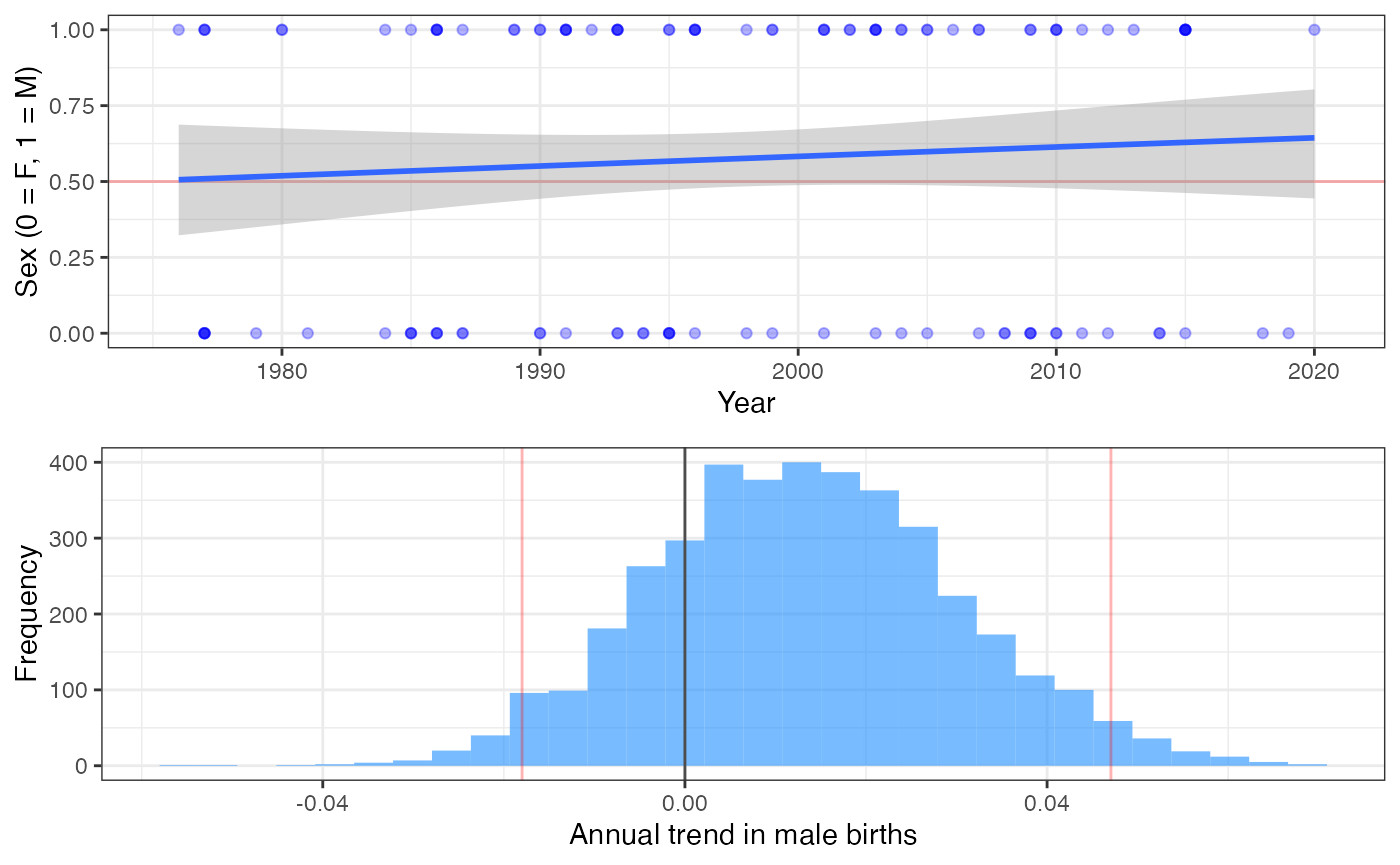
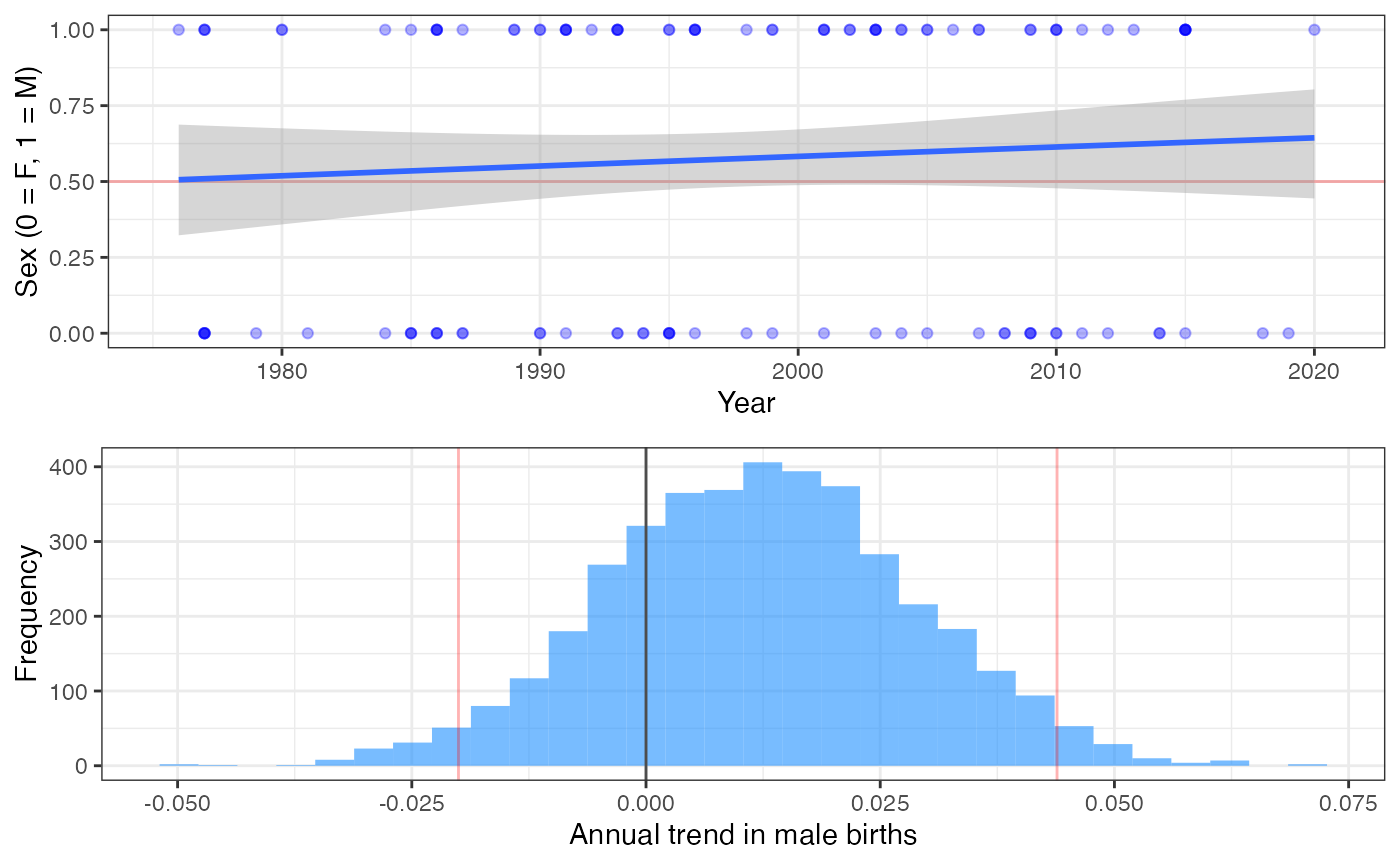
labels

diff --git a/docs/articles/a3srb.html b/docs/articles/a3srb.html
@@ -106,7 +106,7 @@
 <h1 class="hasAnchor">
 <a href="#sex-ratio-at-birth" class="anchor"></a>Sex ratio at birth</h1>
 <p>During the 2011-2012 bilateral workshops (Hilborn et al. 2012; Ward et al. 2013), a comparison between NRKW and SRKW sex ratios at birth was presented, with calves being approximately 55% female in the NRKW population and 45% female in the SRKW population. This difference was assumed to be due to chance, and there was no evidence for a significant trend. As the proportion of males in the SRKW population has increased over time, it is worth re-examining the evidence supporting any trend.</p>
-<p>To evaluate support for a trend, we fit Bayesian logistic regression models (GLMs with a binomial family and logit link function), to SRKW birth data over the period 1977-present. In recent years, since 2019, there have been 1 male births and 1 female births. This analysis highlights that the probability of a positive trend is approximately 78.6% (Fig. ).</p>
+<p>To evaluate support for a trend, we fit Bayesian logistic regression models (GLMs with a binomial family and logit link function), to SRKW birth data over the period 1977-present. In recent years, since 2019, there have been 1 male births and 1 female births. This analysis highlights that the probability of a positive trend is approximately 77.5% (Fig. ).</p>
 <div class="figure">
 <img src="a3srb_files/figure-html/unnamed-chunk-2-1.png" alt="Trends in sex ratio at births for Southern Resident killer whales. Shown are all births (with GLM best fit) and the posterior distribution of the coefficient for the year term (trend). Positive values of the coefficient would support an increasing trend through time. The red line on the top panel represents the 50:50 sex ratio, and red lines on the histogram represent the 95% CIs. \label{fig:srb}" width="700"><p class="caption">
 Trends in sex ratio at births for Southern Resident killer whales. Shown are all births (with GLM best fit) and the posterior distribution of the coefficient for the year term (trend). Positive values of the coefficient would support an increasing trend through time. The red line on the top panel represents the 50:50 sex ratio, and red lines on the histogram represent the 95% CIs. 

diff --git a/docs/articles/a4reprofemales.html b/docs/articles/a4reprofemales.html
@@ -116,7 +116,11 @@ Distribution of ages of reproductive age females (10-42, inclusive) for Southern
 Time series of reproductive age females (10-42, inclusive) for Southern Residents by year since 1976. 
 </p>
 </div>
-<pre><code>#&gt; NULL</code></pre>
+<div class="figure">
+<img src="a4reprofemales_files/figure-html/reprots-pod-1.png" alt="Time series of reproductive age females (10-42, inclusive) for Southern Residents by pod and year since 1976. \label{fig:ts-repro-females-pod}" width="700"><p class="caption">
+Time series of reproductive age females (10-42, inclusive) for Southern Residents by pod and year since 1976. 
+</p>
+</div>
 </div>
   </div>
 
